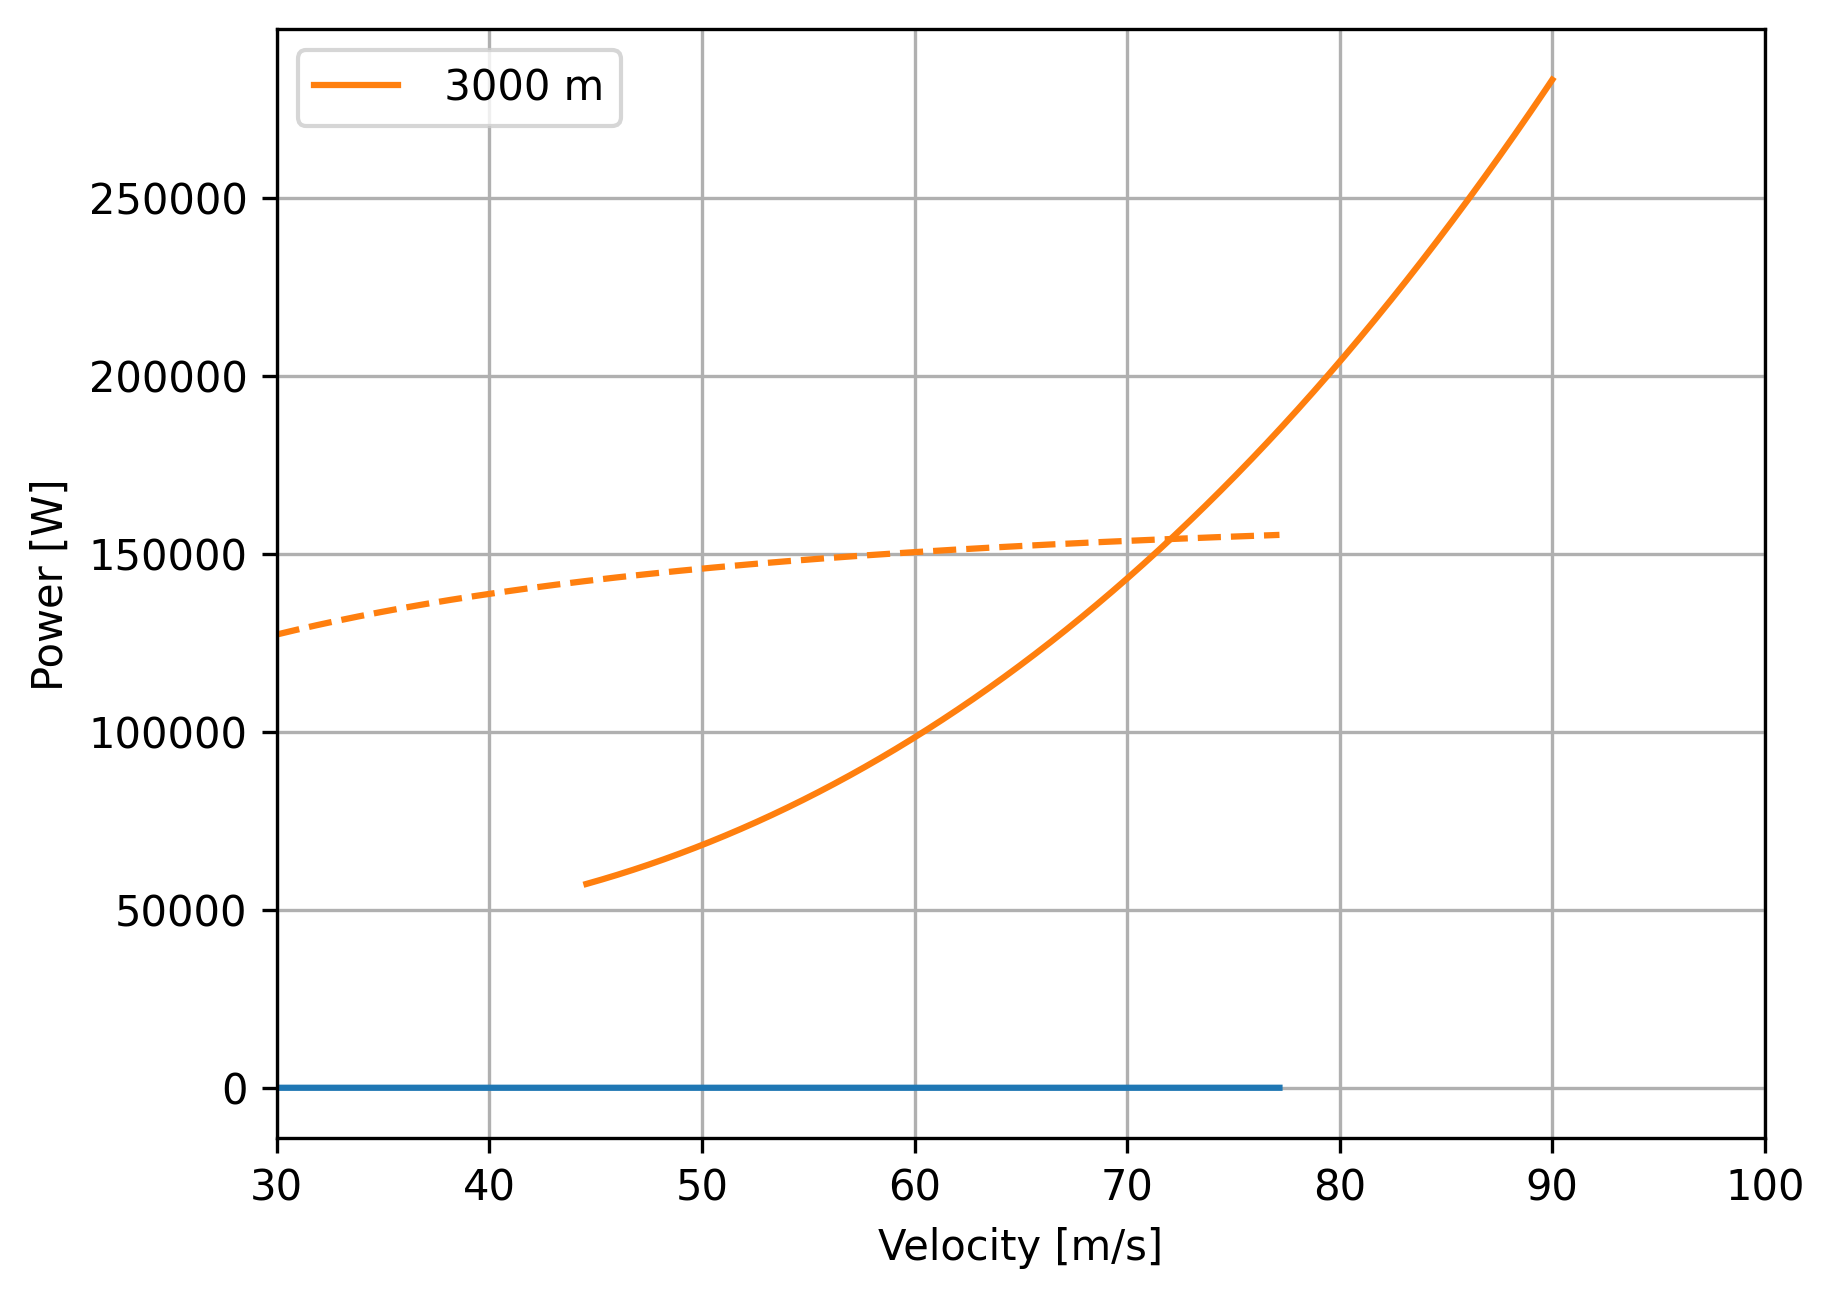
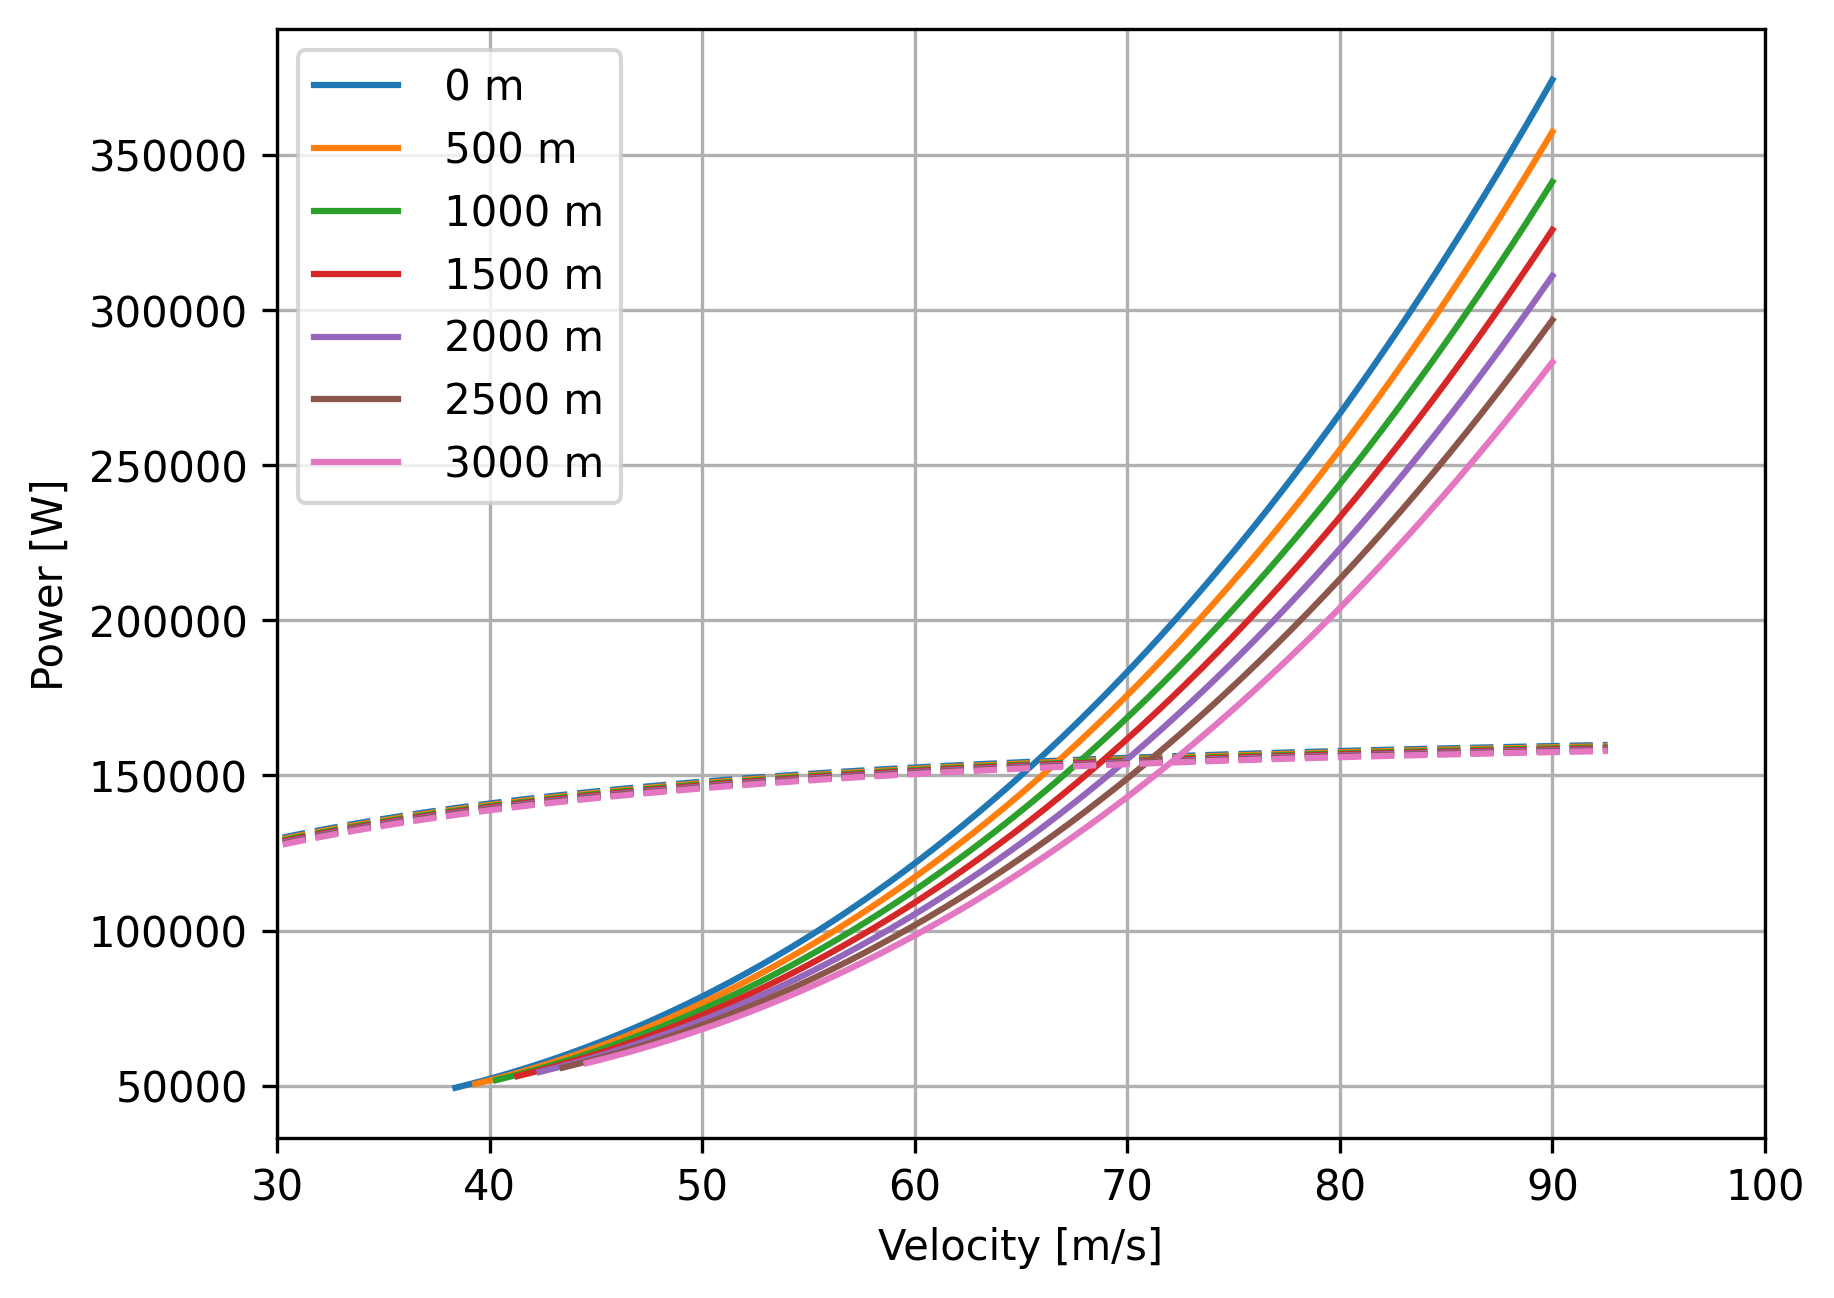
plotted performance diagrams

diff --git a/performance_diagrams/Propeller_performance.py b/performance_diagrams/Propeller_performance.py
@@ -1,3 +1,8 @@
+import sys
+import os
+
+# Fix path FIRST, before any local imports
+sys.path.insert(0, os.path.join(os.path.dirname(__file__), '..'))
 import numpy as np
 import matplotlib.pyplot as plt
 from scipy.interpolate import CubicSpline
@@ -5,7 +10,8 @@ import pandas as pd
 from classes.isa import *
 from scipy.optimize import curve_fit
 #propeller chosen https://www.propellor.com/ap431hapf-snl68e
-graphdata = pd.read_csv("ctcp")
+# graphdata = pd.read_csv("ctcp")
+graphdata = pd.read_csv("performance_diagrams\ctcp")
 
 #check units
 kgtoslug = 0.00194032
@@ -142,7 +148,7 @@ def eff(D_ft,rho_kgm3,P_bhp,J):
 
 def curve( D_ft,rho_kgm3,P_bhp):
     #power shaft in horsepower per singel engine
-    V = np.linspace(20, 150, 1000)  # knots
+    V = np.linspace(20, 180, 1000)  # knots
     Vnew = V * ktastofeet
 
     RPM = P_to_RPM(P_bhp)
@@ -163,14 +169,14 @@ def curve( D_ft,rho_kgm3,P_bhp):
     num =2*(1 -lam ** 2 * np.log(1 + 1/(lam ** 2)) )
     den = 1 + np.sqrt(1+T/(q*A))-2* lam **2* np.log(1 + 1/(lam ** 2))
     eff1 =num / den#new because other gave me linear relationships
-    eff1=2/(1+np.sqrt(1+T/(q*A))) #other flight mechanics book
+    #eff1=2/(1+np.sqrt(1+T/(q*A))) #other flight mechanics book
     P_useful = eff1 * P_bhp
     #T_static= ctcp*550*P_bhp/(n*D_ft)#t_static according to Raymer
     T_static=0.85*(P_bhp*550)**(2/3)*(2*rho_kgm3*desnityconversion*A)**(1/3) #one engine and overestimate due to the fact they dont take into account blockage
 
 
-    P_useful_w = T*Vnew* 745.7*2 #both engines in watts
-    P1=P_useful*745.7*2
+    P1 = T*Vnew* 745.7*2 #both engines in watts
+    P_useful_w=P_useful*745.7*2
     V_ms = Vnew * 0.3048
 
     # print("RPM =", RPM)
@@ -196,15 +202,15 @@ def curve( D_ft,rho_kgm3,P_bhp):
 
     plt.show()
     """
-    return T_static,Vnew,eff1
-    #return V_ms,P_useful_w
+    # return T_static,Vnew,eff1
+    return V_ms,P_useful_w
 
 D_ft=5.66667
-T_static,Vnew,eff1=curve(D_ft,1.02,230/2)
+# T_static,Vnew,eff1=curve(D_ft,1.02,230/2)
 
-delta_T=20
-altitudes = np.arange(0, 8000, 50)
-P_available = []
+# delta_T=20
+# altitudes = np.arange(0, 8000, 50)
+# P_available = []
 
 """
 for alt in altitudes:

diff --git a/performance_diagrams/performance_diagrams.py b/performance_diagrams/performance_diagrams.py
@@ -186,7 +186,7 @@ def max_RoC_altitude(mtow, cd0, S, AR, e, delta_T,P_shaft,D_ft):
     # plt.ylim(-4,6)
     plt.grid(True)
     plt.plot(max_RoCs, alts)
-    plt.xlim(1, 6)
+    plt.xlim(1, 8)
     os.makedirs(os.path.dirname(save_path), exist_ok=True)
     plt.savefig(save_path, dpi=300, bbox_inches='tight')
     plt.close()
@@ -209,7 +209,7 @@ def envelope(C_l_max, mtow, S, cd0, AR, e, P_a, rho_0, n, delta_T, P_shaft, D_ft
 
         V_s = math.sqrt((2 * mtow)/(rho * S * C_l_max))
         V_s_list.append(V_s)
-        V = np.linspace(0.8*V_s, 110, 10000)
+        V = np.linspace(0.8*V_s, 110, 1000)
         V_ms,P_a = curve(D_ft, rho, P_shaft)
 
         C_l = mtow / (0.5 * rho * V ** 2 * S)
@@ -331,9 +331,9 @@ if __name__ == '__main__':
     Aoc = AoC_vs_V(P_a, P_r, mtow, V) #cruise
     P_a_alts, P_r_alts, V_alts = power_curves_altitude(cd0, e, AR, mtow, S,alt_m, 0,P_shaft, D_ft)
     RoC_multiple_alts(P_a_alts, P_r_alts, V_alts, mtow,alt_m)
-    max_RoC_altitude(mtow,cd0, S, AR, e, 0,P_shaft, D_ft)
+    max_roc, alt = max_RoC_altitude(mtow,cd0, S, AR, e, 0,P_shaft, D_ft)
     envelope(C_l_max, mtow, S, cd0, AR, e, P_a, rho_0, n, delta_T,P_shaft,D_ft)
-   
+    print(max_roc)
 
     
 

diff --git a/performance_diagrams/energy_heigt.py b/performance_diagrams/energy_heigt.py
@@ -27,8 +27,8 @@ def h_v_plot(alts, mtow,cd0,S,AR,e,c_l_max, D_ft, P_bhp):
     
     for i, alt in enumerate(alts):
         rho = Atmosphere(alt, 0).density[0]
-        # V_array= np.linspace(1.3 * stall_speed(mtow, c_l_max, rho, S), 90, 100)
-        V_array= np.linspace(0.1, 90, 100)
+        V_array= np.linspace(1.3 * stall_speed(mtow, c_l_max, rho, S), 90, 100)
+        #V_array= np.linspace(0.1, 90, 100)
         V_ms, P_available_curve= curve(D_ft, rho, P_bhp)
 
         for j, V in enumerate(V_array):
